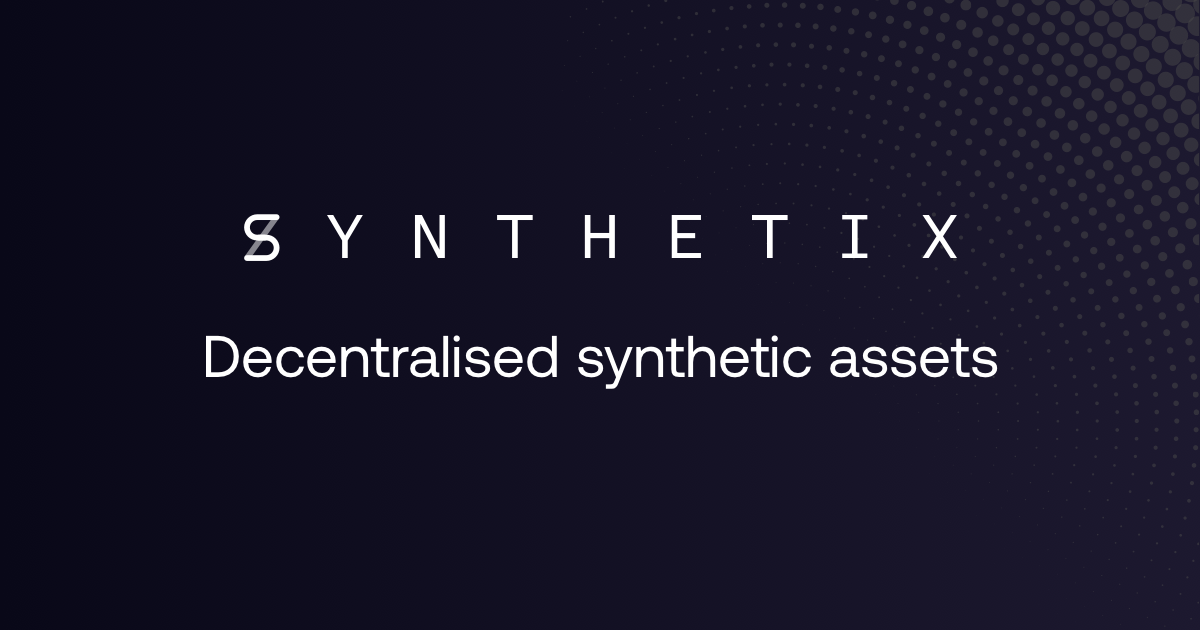
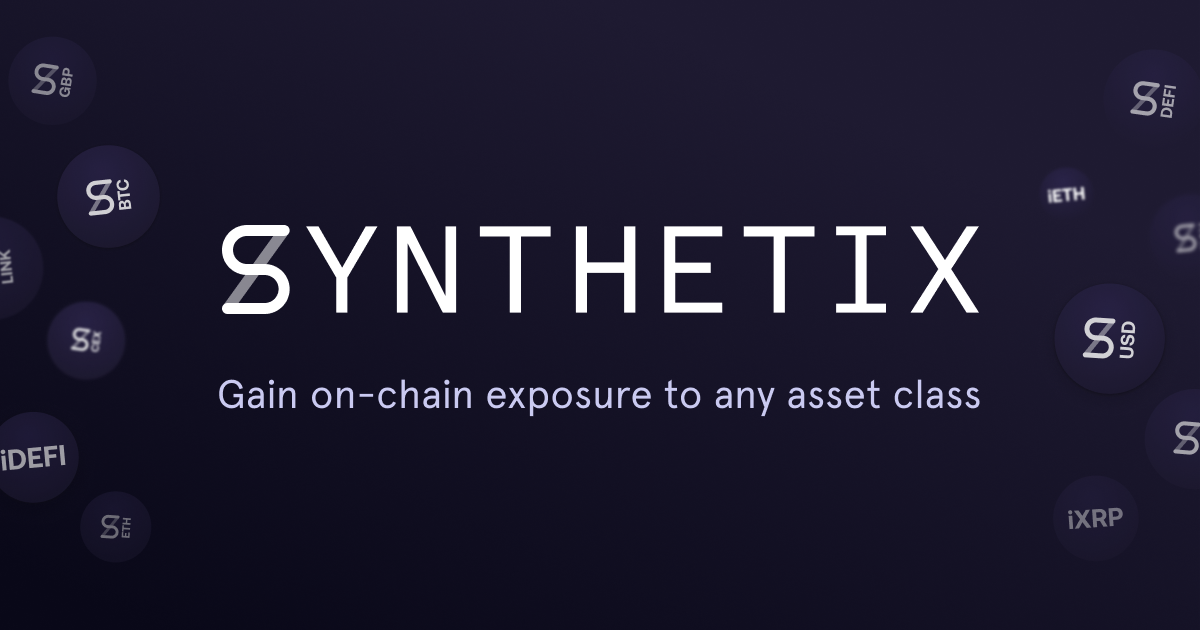
Fixing links in Header & Footer, updating social image, updating image of the Exchange

diff --git a/src/components/Footer.js b/src/components/Footer.js
@@ -75,7 +75,7 @@ const Footer = ({ twitterUrl, mediumUrl, redditUrl, discordUrl, dashboardUrl, mi
 								</li>
 								<li>
 									<a
-										href={"https://developer.synthetix.io/"}
+										href={"https://developer.synthetix.io/api/docs/home.html"}
 										target="_blank"
 										rel="noopener noreferrer"
 									>
